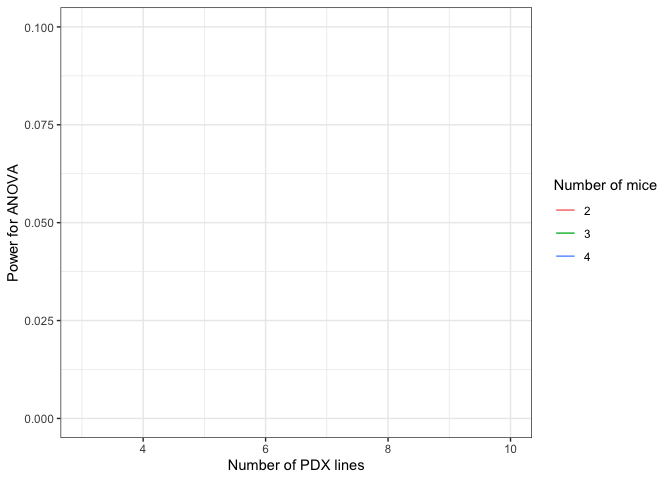
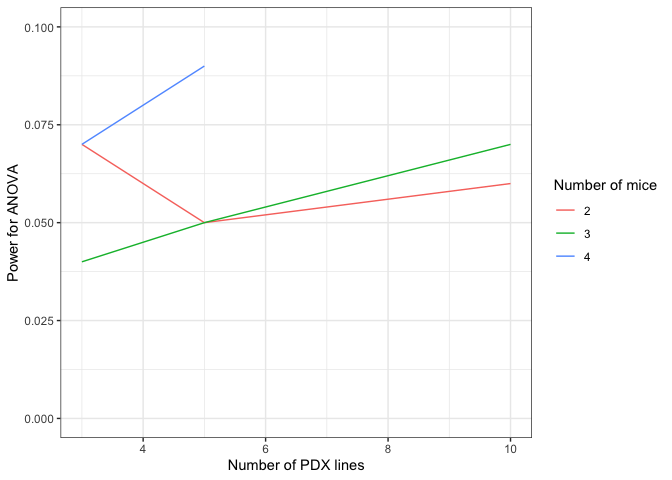
update codes

diff --git a/README.md b/README.md
@@ -28,6 +28,7 @@ where `Y` is the event time variable, `status` is the event indicator,
 ``` r
 library(PDXpower)
 #> Loading required package: survival
+#> Loading required package: parallel
 data(mice)
 ### Power analysis on a preliminary dataset by assuming the time to event is Weibull-distributed
 PowTab <- PowFrailtyDat(data = mice, formula = Surv(Y, status) ~ Tx + cluster(ID), 
@@ -73,16 +74,16 @@ effects model.
 
 ``` r
 ### Power analysis on a preliminary dataset by assuming the time to event is log-normal
-PowTab <- PowANOVADat(data = mice, formula = log(Y) ~ Tx, 
+PowTab <- PowANOVADat(data = mice2, formula = log(Y) ~ Tx, 
                       random = ~ 1|ID, n = c(3, 5, 10), m = c(2, 3, 4), sim = 100)
 PowTab
 #> Power analysis based on pilot data
 #> 
 #> An ANOVA mixed effects model was fitted
 #> Summary of parameter estimates from the data:
-#> Treatment effect (beta): 0.5135 
+#> Treatment effect (beta): 0.1265 
 #> Variance of random effect (tau2): 0 
-#> Random error variance (sigma2): 0.422 
+#> Random error variance (sigma2): 0.4594 
 #> The above parameters are used for Monte Carlo data generation from a ANOVA mixed effects model.
 #> Power for each combination of number of PDX lines (n) and number of mice per arm per PDX line (m) is calculated based on the proportion of rejecting the null hypothesis beta = 0.
 #> 
@@ -90,17 +91,17 @@ PowTab
 #>  PowerTable(n = n, m = m, beta = beta, tau2 = tau2, sigma2 = sigma2, two.sided = two.sided, distr = "normal", censor = FALSE, sim = sim, print = "ANOVA", ncores = ncores) 
 #> 
 #>    n m Power (%)
-#> 1  3 2        25
-#> 2  3 3        36
-#> 3  3 4        49
-#> 4  5 2        38
-#> 5  5 3        52
-#> 6  5 4        70
-#> 7 10 2        69
-#> 8 10 3        84
-#> 9 10 4        97
+#> 1  3 2         7
+#> 2  3 3         4
+#> 3  3 4         7
+#> 4  5 2         5
+#> 5  5 3         5
+#> 6  5 4         9
+#> 7 10 2         6
+#> 8 10 3         7
+#> 9 10 4        11
 plotpower(PowTab[[4]])
-#> Warning: Removed 9 rows containing missing values (`geom_line()`).
+#> Warning: Removed 1 row containing missing values (`geom_line()`).
 ```
 
 <img src="man/figures/README-unnamed-chunk-4-1.png" width="100%" />

diff --git a/news.md b/news.md
@@ -1,0 +1,3 @@
+# PDXpower 1.0.0
+
+* A first R package for power analysis tool to determine the optimal number of PDX lines and number of mice per line in a mixed/crossed design.
